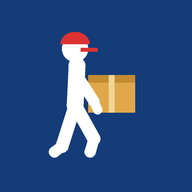
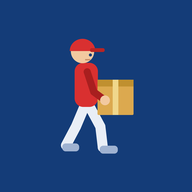
Nuova icona del corriere (cappellino, gambe e scatola corretti)
Claude-Session: https://claude.ai/code/session_016JKMqeAu5igaNDLoHVimn4

Changed region(s): [[0.25, 0.1562, 0.7188, 0.8438]]

diff --git a/sw.js b/sw.js
@@ -1,4 +1,4 @@
-const V='sda-v14', TILES='tiles-v1';
+const V='sda-v15', TILES='tiles-v1';
 const SHELL=['./','./index.html','./app.js','./manifest.webmanifest','./icon-192.png','./icon-512.png','./lib/leaflet.js','./lib/leaflet.css','./lib/xlsx.full.min.js','./lib/zxing-wasm-reader.js','./lib/zxing_reader.wasm','./lib/images/marker-icon.png','./lib/images/layers.png'];
 self.addEventListener('install',e=>{e.waitUntil(caches.open(V).then(c=>c.addAll(SHELL)).then(()=>self.skipWaiting()));});
 self.addEventListener('activate',e=>{e.waitUntil(caches.keys().then(ks=>Promise.all(ks.filter(k=>k!==V&&k!==TILES).map(k=>caches.delete(k)))).then(()=>self.clients.claim()));});

diff --git a/index.html b/index.html
@@ -4,8 +4,8 @@
 <meta charset="utf-8">
 <meta name="viewport" content="width=device-width,initial-scale=1,maximum-scale=1,user-scalable=no">
 <meta name="theme-color" content="#143c78">
-<link rel="manifest" href="manifest.webmanifest?v=3">
-<link rel="icon" href="icon-192.png?v=3">
+<link rel="manifest" href="manifest.webmanifest?v=4">
+<link rel="icon" href="icon-192.png?v=4">
 <title>Courier Companion</title>
 <link rel="stylesheet" href="lib/leaflet.css">
 <style>
